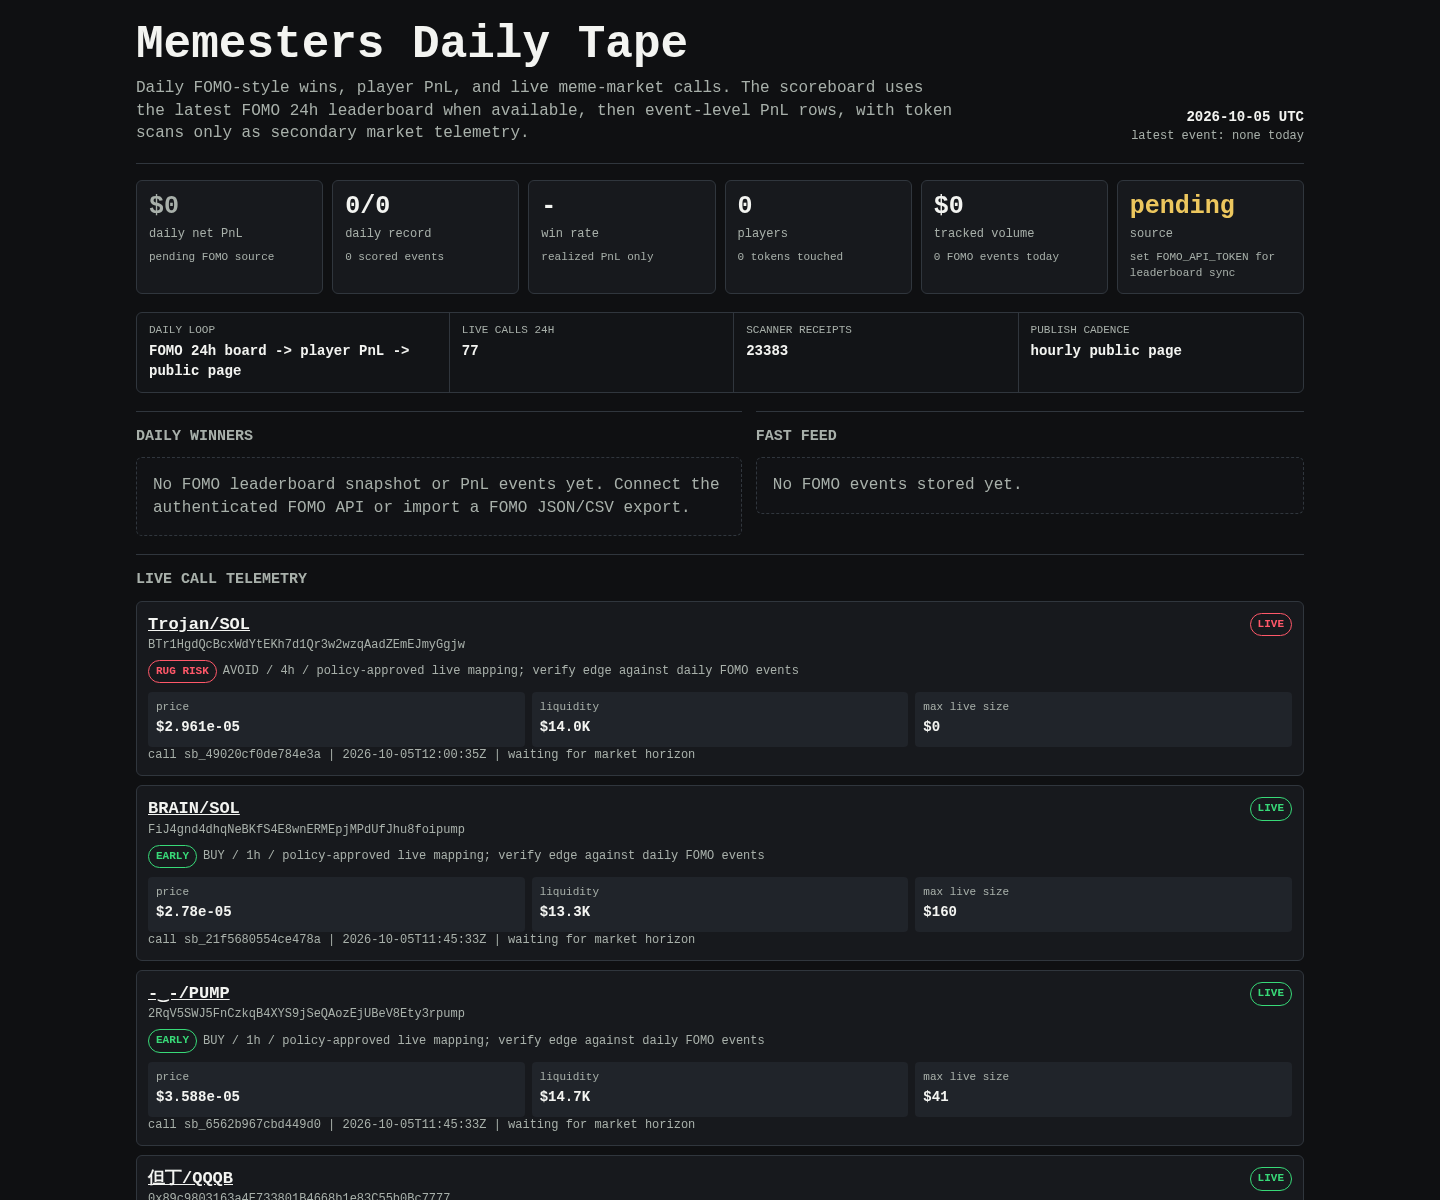
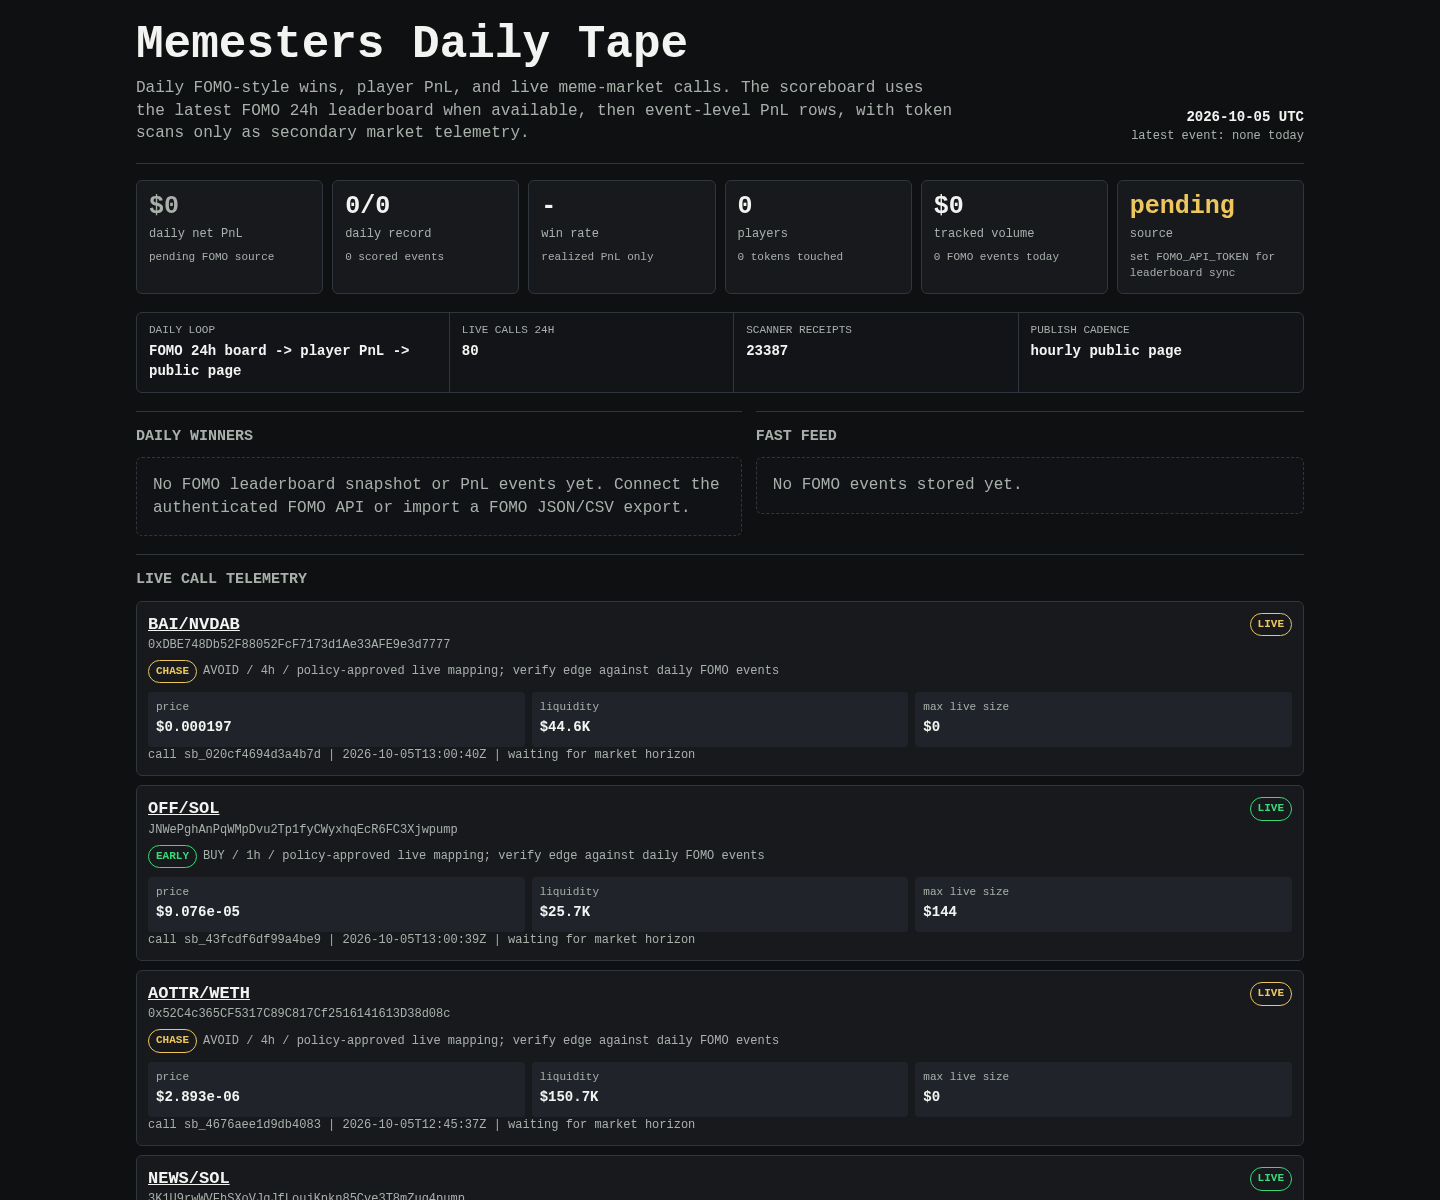
Update Memesters scoreboard

diff --git a/memesters/index.html b/memesters/index.html
@@ -149,8 +149,8 @@
 
     <div class="rail" aria-label="live operating loop">
       <div><span>daily loop</span><b>FOMO 24h board -> player PnL -> public page</b></div>
-      <div><span>live calls 24h</span><b>77</b></div>
-      <div><span>scanner receipts</span><b>23383</b></div>
+      <div><span>live calls 24h</span><b>80</b></div>
+      <div><span>scanner receipts</span><b>23387</b></div>
       <div><span>publish cadence</span><b>hourly public page</b></div>
     </div>
 
@@ -171,6 +171,90 @@
     <article class="receipt">
       <div class="receipt-head">
         <div>
+          <div class="pair"><a href="https://dexscreener.com/bsc/0xf423e7a764ea9758049072de18262f9f1a2e2439">BAI/NVDAB</a></div>
+          <div class="addr">0xDBE748Db52F88052FcF7173d1Ae33AFE9e3d7777</div>
+          <div class="addr policy-line">
+            <span class="badge chase">CHASE</span>
+            <span>AVOID / 4h / policy-approved live mapping; verify edge against daily FOMO events</span>
+          </div>
+        </div>
+        <span class="badge chase">LIVE</span>
+      </div>
+      <div class="receipt-grid">
+        <div class="kv"><span>price</span><b>$0.000197</b></div>
+        <div class="kv"><span>liquidity</span><b>$44.6K</b></div>
+        <div class="kv"><span>max live size</span><b>$0</b></div>
+      </div>
+      <div class="outcomes">call sb_020cf4694d3a4b7d | 2026-10-05T13:00:40Z | waiting for market horizon</div>
+    </article>
+    
+
+    <article class="receipt">
+      <div class="receipt-head">
+        <div>
+          <div class="pair"><a href="https://dexscreener.com/solana/7pi6r4ej87kuucxkbqem8trdtb2aemprstmldqpo5xaf">OFF/SOL</a></div>
+          <div class="addr">JNWePghAnPqWMpDvu2Tp1fyCWyxhqEcR6FC3Xjwpump</div>
+          <div class="addr policy-line">
+            <span class="badge early">EARLY</span>
+            <span>BUY / 1h / policy-approved live mapping; verify edge against daily FOMO events</span>
+          </div>
+        </div>
+        <span class="badge early">LIVE</span>
+      </div>
+      <div class="receipt-grid">
+        <div class="kv"><span>price</span><b>$9.076e-05</b></div>
+        <div class="kv"><span>liquidity</span><b>$25.7K</b></div>
+        <div class="kv"><span>max live size</span><b>$144</b></div>
+      </div>
+      <div class="outcomes">call sb_43fcdf6df99a4be9 | 2026-10-05T13:00:39Z | waiting for market horizon</div>
+    </article>
+    
+
+    <article class="receipt">
+      <div class="receipt-head">
+        <div>
+          <div class="pair"><a href="https://dexscreener.com/robinhood/0xef099d3953ba2333423372a4d5732215470e5870d89da45f2627dee37206e95f">AOTTR/WETH</a></div>
+          <div class="addr">0x52C4c365CF5317C89C817Cf2516141613D38d08c</div>
+          <div class="addr policy-line">
+            <span class="badge chase">CHASE</span>
+            <span>AVOID / 4h / policy-approved live mapping; verify edge against daily FOMO events</span>
+          </div>
+        </div>
+        <span class="badge chase">LIVE</span>
+      </div>
+      <div class="receipt-grid">
+        <div class="kv"><span>price</span><b>$2.893e-06</b></div>
+        <div class="kv"><span>liquidity</span><b>$150.7K</b></div>
+        <div class="kv"><span>max live size</span><b>$0</b></div>
+      </div>
+      <div class="outcomes">call sb_4676aee1d9db4083 | 2026-10-05T12:45:37Z | waiting for market horizon</div>
+    </article>
+    
+
+    <article class="receipt">
+      <div class="receipt-head">
+        <div>
+          <div class="pair"><a href="https://dexscreener.com/solana/aglfnc64jx7jovftjm9xnupgtdrjqqueumeefsf5kyb3">NEWS/SOL</a></div>
+          <div class="addr">3K1U9rwWVFhSXoVJqJfLoujKpkn85Cve3T8mZuq4pump</div>
+          <div class="addr policy-line">
+            <span class="badge early">EARLY</span>
+            <span>BUY / 1h / policy-approved live mapping; verify edge against daily FOMO events</span>
+          </div>
+        </div>
+        <span class="badge early">LIVE</span>
+      </div>
+      <div class="receipt-grid">
+        <div class="kv"><span>price</span><b>$7.423e-05</b></div>
+        <div class="kv"><span>liquidity</span><b>$23.1K</b></div>
+        <div class="kv"><span>max live size</span><b>$264</b></div>
+      </div>
+      <div class="outcomes">call sb_8c25f76e5b9b4252 | 2026-10-05T12:45:37Z | waiting for market horizon</div>
+    </article>
+    
+
+    <article class="receipt">
+      <div class="receipt-head">
+        <div>
           <div class="pair"><a href="https://dexscreener.com/solana/gbykdbm8scrqncxiu8xbmupp2bb4isjoyv53uornp5xi">Trojan/SOL</a></div>
           <div class="addr">BTr1HgdQcBcxWdYtEKh7d1Qr3w2wzqAadZEmEJmyGgjw</div>
           <div class="addr policy-line">
@@ -185,7 +269,7 @@
         <div class="kv"><span>liquidity</span><b>$14.0K</b></div>
         <div class="kv"><span>max live size</span><b>$0</b></div>
       </div>
-      <div class="outcomes">call sb_49020cf0de784e3a | 2026-10-05T12:00:35Z | waiting for market horizon</div>
+      <div class="outcomes">call sb_49020cf0de784e3a | 2026-10-05T12:00:35Z | <span class="positive">15m -54.3% / +$54 if followed</span></div>
     </article>
     
 
@@ -206,7 +290,7 @@
         <div class="kv"><span>liquidity</span><b>$13.3K</b></div>
         <div class="kv"><span>max live size</span><b>$160</b></div>
       </div>
-      <div class="outcomes">call sb_21f5680554ce478a | 2026-10-05T11:45:33Z | waiting for market horizon</div>
+      <div class="outcomes">call sb_21f5680554ce478a | 2026-10-05T11:45:33Z | <span class="positive">15m +109.4% / +$109 if followed</span> | <span class="positive">1h +74.2% / +$74 if followed</span></div>
     </article>
     
 
@@ -227,7 +311,7 @@
         <div class="kv"><span>liquidity</span><b>$14.7K</b></div>
         <div class="kv"><span>max live size</span><b>$41</b></div>
       </div>
-      <div class="outcomes">call sb_6562b967cbd449d0 | 2026-10-05T11:45:33Z | waiting for market horizon</div>
+      <div class="outcomes">call sb_6562b967cbd449d0 | 2026-10-05T11:45:33Z | <span class="negative">15m -82.0% / -$82 if followed</span> | <span class="negative">1h -80.7% / -$81 if followed</span></div>
     </article>
     
 
@@ -248,7 +332,7 @@
         <div class="kv"><span>liquidity</span><b>$23.6K</b></div>
         <div class="kv"><span>max live size</span><b>$283</b></div>
       </div>
-      <div class="outcomes">call sb_112ff6de17294357 | 2026-10-05T11:00:35Z | <span class="negative">15m -18.6% / -$19 if followed</span></div>
+      <div class="outcomes">call sb_112ff6de17294357 | 2026-10-05T11:00:35Z | <span class="negative">15m -18.6% / -$19 if followed</span> | <span class="negative">1h -23.4% / -$23 if followed</span></div>
     </article>
     
 
@@ -269,7 +353,7 @@
         <div class="kv"><span>liquidity</span><b>$87.3K</b></div>
         <div class="kv"><span>max live size</span><b>$0</b></div>
       </div>
-      <div class="outcomes">call sb_e3ef6895b32a4d0c | 2026-10-05T11:00:35Z | <span class="positive">15m -46.3% / +$46 if followed</span></div>
+      <div class="outcomes">call sb_e3ef6895b32a4d0c | 2026-10-05T11:00:35Z | <span class="positive">15m -46.3% / +$46 if followed</span> | <span class="positive">1h -93.5% / +$94 if followed</span></div>
     </article>
     
 
@@ -291,90 +375,6 @@
         <div class="kv"><span>max live size</span><b>$25</b></div>
       </div>
       <div class="outcomes">call sb_7e5e4f4b15714473 | 2026-10-05T10:45:32Z | <span class="negative">15m -93.0% / -$93 if followed</span> | <span class="negative">1h -92.9% / -$93 if followed</span></div>
-    </article>
-    
-
-    <article class="receipt">
-      <div class="receipt-head">
-        <div>
-          <div class="pair"><a href="https://dexscreener.com/solana/5jcnqppwcie5hm5iktga5ktjfk2nnddxeqw8odgtrotj">FAUPAD/SOL</a></div>
-          <div class="addr">AhHFNWKC6a1E1ypHHknLbsbtkptaCCfZKayZfrGgpump</div>
-          <div class="addr policy-line">
-            <span class="badge rug-risk">RUG RISK</span>
-            <span>AVOID / 4h / policy-approved live mapping; verify edge against daily FOMO events</span>
-          </div>
-        </div>
-        <span class="badge rug-risk">LIVE</span>
-      </div>
-      <div class="receipt-grid">
-        <div class="kv"><span>price</span><b>$5.267e-06</b></div>
-        <div class="kv"><span>liquidity</span><b>$4.6K</b></div>
-        <div class="kv"><span>max live size</span><b>$0</b></div>
-      </div>
-      <div class="outcomes">call sb_ac5f89d05f5d47ce | 2026-10-05T10:00:35Z | <span class="positive">15m -42.9% / +$43 if followed</span> | <span class="positive">1h -46.4% / +$46 if followed</span></div>
-    </article>
-    
-
-    <article class="receipt">
-      <div class="receipt-head">
-        <div>
-          <div class="pair"><a href="https://dexscreener.com/bsc/0x27db5c5b00913fefa1c3d5ac03dd3228cb2af397">bibi/WBNB</a></div>
-          <div class="addr">0x7906a4516D7da442344739E10625d2c28bAD7777</div>
-          <div class="addr policy-line">
-            <span class="badge chase">CHASE</span>
-            <span>AVOID / 4h / policy-approved live mapping; verify edge against daily FOMO events</span>
-          </div>
-        </div>
-        <span class="badge chase">LIVE</span>
-      </div>
-      <div class="receipt-grid">
-        <div class="kv"><span>price</span><b>$0.0002754</b></div>
-        <div class="kv"><span>liquidity</span><b>$55.3K</b></div>
-        <div class="kv"><span>max live size</span><b>$0</b></div>
-      </div>
-      <div class="outcomes">call sb_91a53e213a564a91 | 2026-10-05T10:00:35Z | <span class="negative">15m +8.8% / -$9 if followed</span> | <span class="positive">1h -6.2% / +$6 if followed</span></div>
-    </article>
-    
-
-    <article class="receipt">
-      <div class="receipt-head">
-        <div>
-          <div class="pair"><a href="https://dexscreener.com/ethereum/0x61b30b9cf6f6a781bda5a15bd5809cc86363aaf5554e107f0533b02396baf9d0">SPACEXSI/SPCXon</a></div>
-          <div class="addr">0xa562eE15460CFc8c7a71920B25FA13bD8C5313C3</div>
-          <div class="addr policy-line">
-            <span class="badge early">EARLY</span>
-            <span>BUY / 1h / policy-approved live mapping; verify edge against daily FOMO events</span>
-          </div>
-        </div>
-        <span class="badge early">LIVE</span>
-      </div>
-      <div class="receipt-grid">
-        <div class="kv"><span>price</span><b>$5.616e-05</b></div>
-        <div class="kv"><span>liquidity</span><b>$26.5K</b></div>
-        <div class="kv"><span>max live size</span><b>$318</b></div>
-      </div>
-      <div class="outcomes">call sb_a42c259b55b947dd | 2026-10-05T10:00:35Z | <span class="negative">15m -4.6% / -$5 if followed</span> | <span class="negative">1h -4.5% / -$4 if followed</span></div>
-    </article>
-    
-
-    <article class="receipt">
-      <div class="receipt-head">
-        <div>
-          <div class="pair"><a href="https://dexscreener.com/bsc/0x91d3b9adc6c20a301a2d73a33937ba8fa1ad6bec">BONS/WBNB</a></div>
-          <div class="addr">0x76f8d6401f42c52AAF24b8894cD458CddC577777</div>
-          <div class="addr policy-line">
-            <span class="badge chase">CHASE</span>
-            <span>AVOID / 4h / policy-approved live mapping; verify edge against daily FOMO events</span>
-          </div>
-        </div>
-        <span class="badge chase">LIVE</span>
-      </div>
-      <div class="receipt-grid">
-        <div class="kv"><span>price</span><b>$1.258e-05</b></div>
-        <div class="kv"><span>liquidity</span><b>$16.4K</b></div>
-        <div class="kv"><span>max live size</span><b>$0</b></div>
-      </div>
-      <div class="outcomes">call sb_1e2876b3902f4140 | 2026-10-05T09:15:33Z | <span class="positive">15m -23.5% / +$23 if followed</span> | <span class="positive">1h -46.4% / +$46 if followed</span></div>
     </article>
     
     </section>
